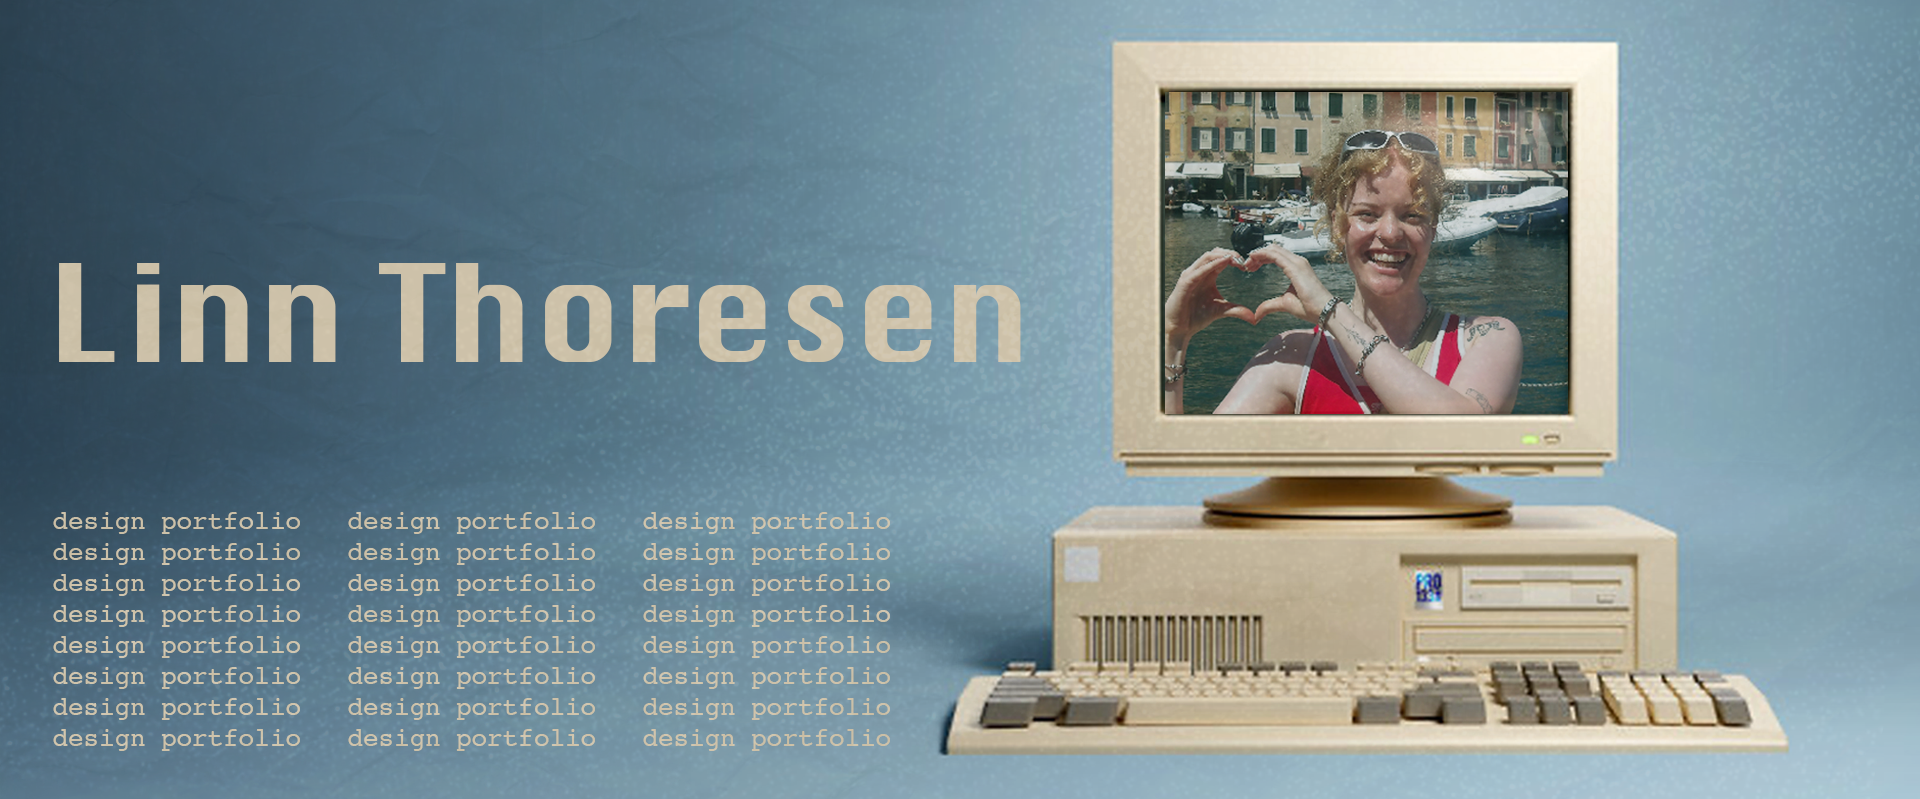
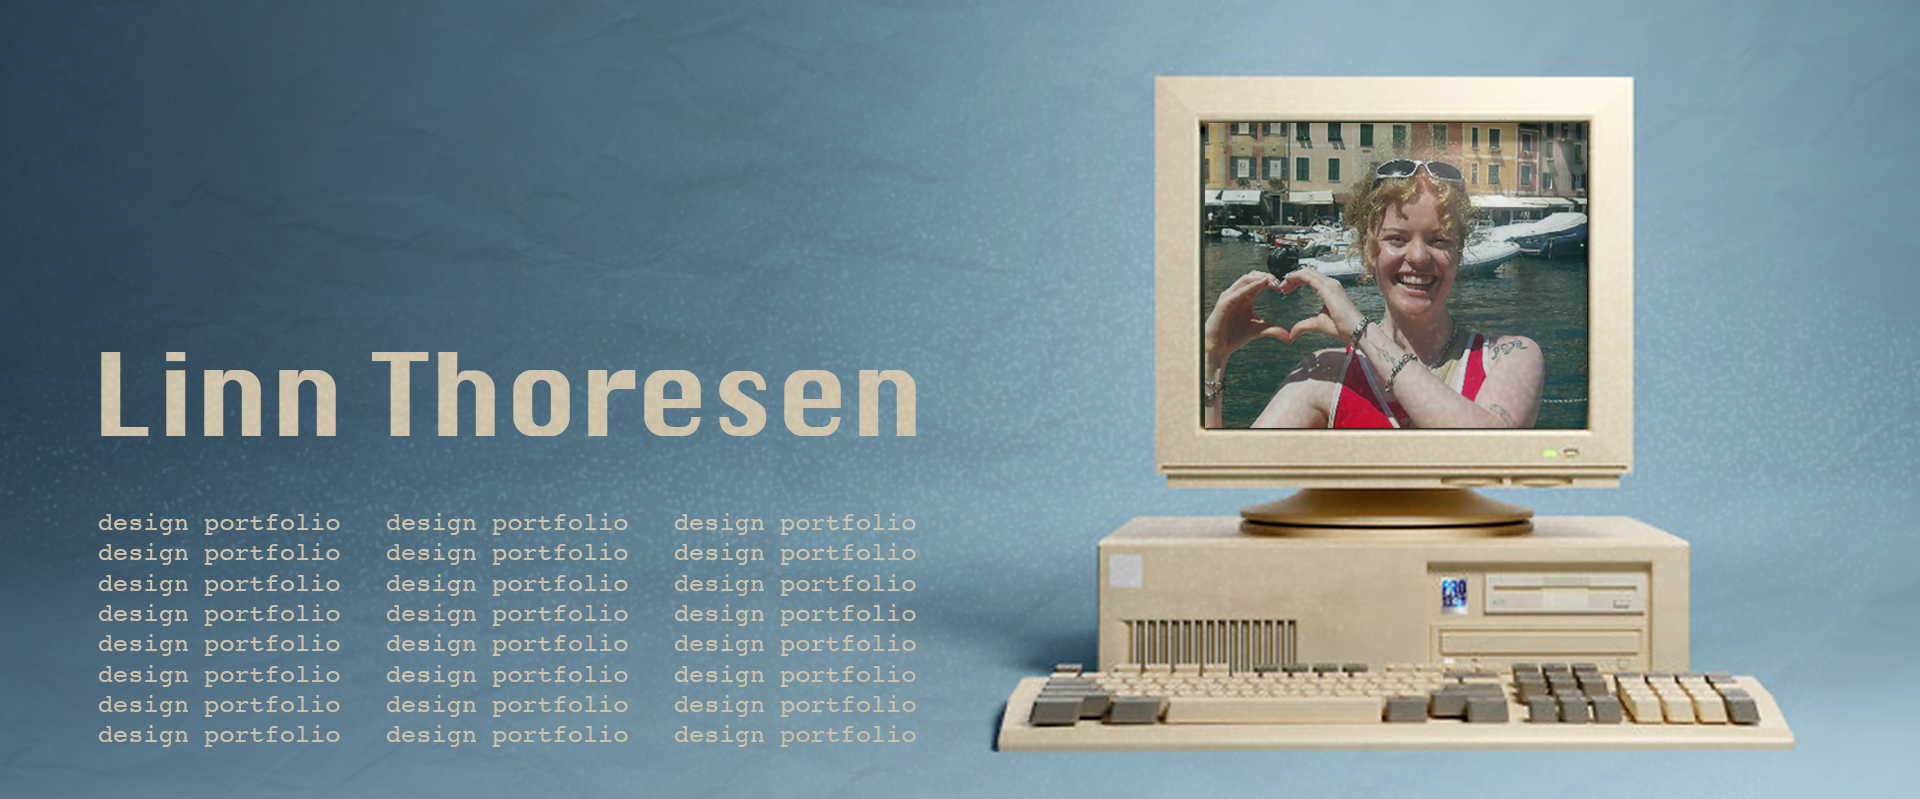
padding

Changed region(s): [[0.0312, 0.03, 0.9375, 0.9612], [0.0312, 0.3304, 0.5312, 0.5707]]

diff --git a/static/css/style.css b/static/css/style.css
@@ -45,8 +45,8 @@ body {
 }
 
 .intro-text p {
-  margin-bottom: 1.5rem;
-  margin-top: 0.5rem;
+  margin-bottom: 1rem;
+  margin-top: 1.5rem;
 }
 
 .intro-text {
